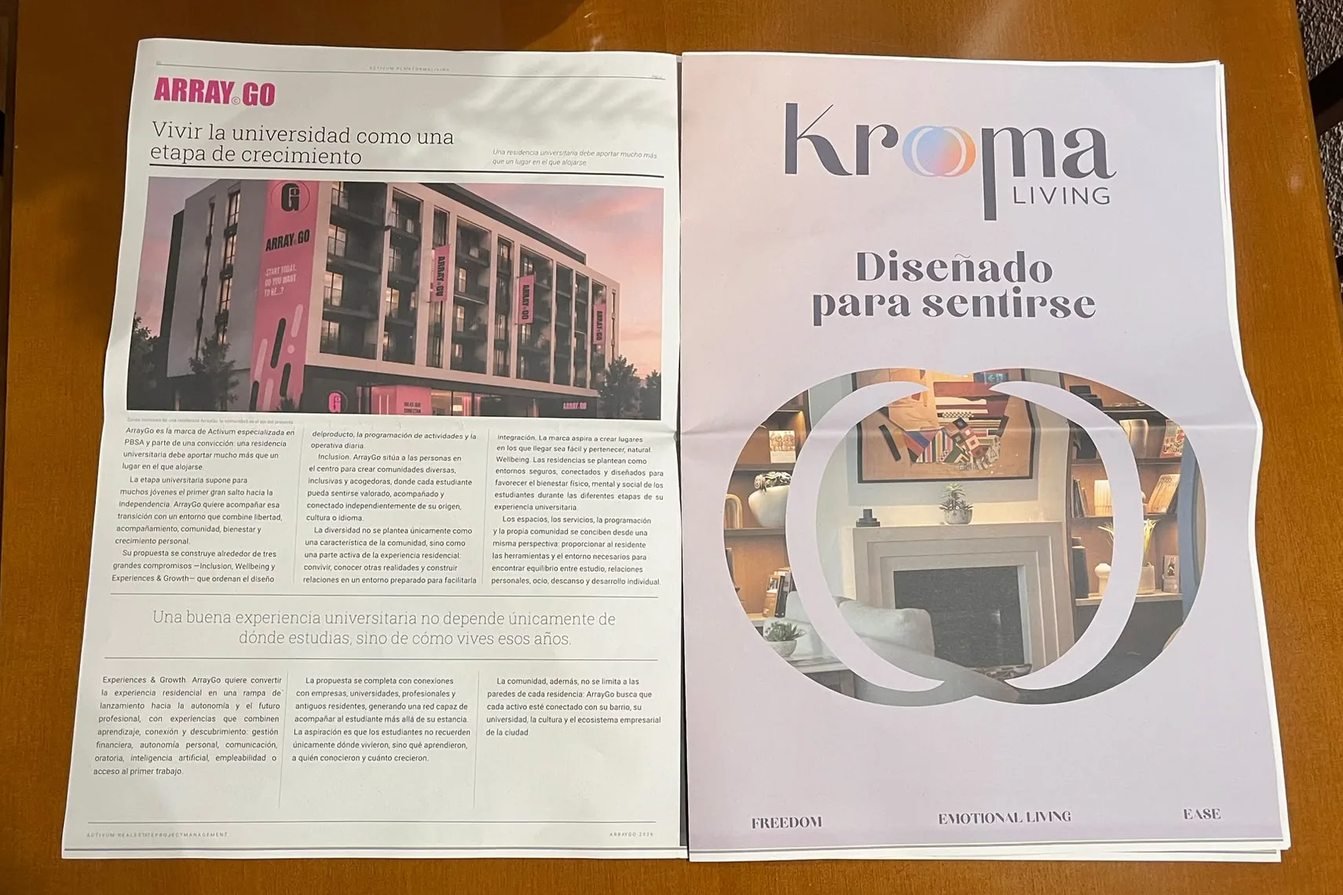
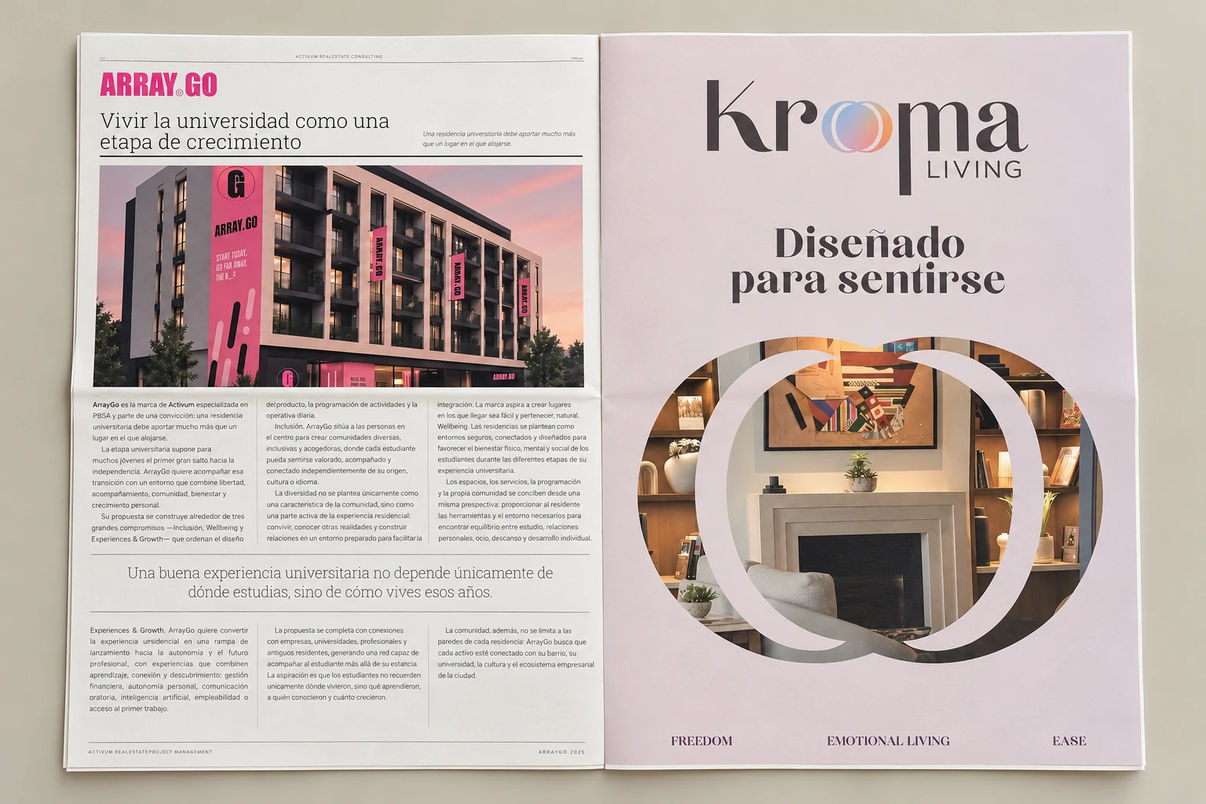
New newspaper images and internal magazine link on Marca en papel

diff --git a/marca-en-papel.html b/marca-en-papel.html
@@ -1,2 +1,2 @@
 <!doctype html>
-<html lang="es"><head><meta charset="utf-8"><meta name="viewport" content="width=device-width, initial-scale=1"><title>Marca en papel — María Valle</title><meta name="description" content="Dossieres, periódico de lanzamiento, revista interna, cartelería y artes finales para una consultora inmobiliaria y sus marcas."><link rel="canonical" href="https://maria-valle-portfolio.vercel.app/marca-en-papel.html"><meta property="og:type" content="website"><meta property="og:site_name" content="María Valle — Portfolio"><meta property="og:url" content="https://maria-valle-portfolio.vercel.app/marca-en-papel.html"><meta property="og:title" content="Marca en papel — María Valle"><meta property="og:description" content="Dossieres, periódico de lanzamiento, revista interna, cartelería y artes finales para una consultora inmobiliaria y sus marcas."><meta property="og:image" content="https://maria-valle-portfolio.vercel.app/assets/og/og-image-v2.png"><meta property="og:image:width" content="1200"><meta property="og:image:height" content="630"><meta property="og:locale" content="es_ES"><meta property="og:locale:alternate" content="en_US"><meta name="twitter:card" content="summary_large_image"><meta name="twitter:title" content="Marca en papel — María Valle"><meta name="twitter:description" content="Dossieres, periódico de lanzamiento, revista interna, cartelería y artes finales para una consultora inmobiliaria y sus marcas."><meta name="twitter:image" content="https://maria-valle-portfolio.vercel.app/assets/og/og-image-v2.png"><link rel="icon" type="image/png" sizes="16x16" href="assets/favicon/favicon-16.png"><link rel="icon" type="image/png" sizes="32x32" href="assets/favicon/favicon-32.png"><link rel="icon" type="image/png" sizes="48x48" href="assets/favicon/favicon-48.png"><link rel="icon" type="image/png" sizes="192x192" href="assets/favicon/icon-192.png"><link rel="icon" type="image/png" sizes="512x512" href="assets/favicon/icon-512.png"><link rel="apple-touch-icon" sizes="180x180" href="assets/favicon/apple-touch-icon.png"><link rel="stylesheet" href="colors_and_type.css?v=5"><link rel="stylesheet" href="site.css?v=6"></head><body data-lang="es"><header class="hdr"><div class="hdr__in"><a class="hdr__logo" href="index.html" aria-label="María Valle — inicio"><img src="assets/logos/logo-principal.webp" alt="María Valle"></a><nav class="nav" aria-label="Principal"><a href="trabajo.html" class="is-active"><span lang="es">Trabajo</span><span lang="en">Work</span></a><a href="sobre-mi.html"><span lang="es">Sobre mí</span><span lang="en">About</span></a><a href="#contacto"><span lang="es">Contacto</span><span lang="en">Contact</span></a><a class="nav__cv" href="assets/CV-Maria-Valle-Diseno-y-Branding.pdf" download>CV <span aria-hidden="true">↓</span></a></nav><div class="lang-switch" role="group" aria-label="Idioma"><button data-lang="es" class="is-active">ES</button><button data-lang="en">EN</button></div></div></header><main><article class="case"><div class="wrap case__top"><nav class="crumbs" aria-label="Ruta"><a href="trabajo.html"><span lang="es">Trabajo</span><span lang="en">Work</span></a><span>/</span><a href="trabajo.html#print"><span lang="es">Print y editorial</span><span lang="en">Print & editorial</span></a></nav><h1 class="case__title" lang="es">Marca en papel</h1><h1 class="case__title" lang="en">Brand on paper</h1><p class="case__line" lang="es">Dossieres, periódico de lanzamiento, revista interna, cartelería y artes finales para una consultora inmobiliaria y sus marcas.</p><p class="case__line" lang="en">Dossiers, a launch newspaper, an internal magazine, signage and print-ready artwork for a real estate consultancy and its brands.</p></div><div class="case__cover"><figure class="m " style="--r:3/2"><img src="assets/dossier/dossier-mockup.webp" alt="Dossier general" loading="lazy"></figure></div><div class="wrap" style="--accent-soft:#F3DEE3"><dl class="facts reveal"><div><dt>Sector</dt><dd><span lang="es">Inmobiliario · servicios corporativos</span><span lang="en">Real estate · corporate services</span></dd></div><div><dt><span lang="es">Año</span><span lang="en">Year</span></dt><dd>2025–26</dd></div><div><dt><span lang="es">Mi rol</span><span lang="en">My role</span></dt><dd><span lang="es">Diseño, maquetación y artes finales para imprenta.</span><span lang="en">Design, layout and print-ready artwork.</span></dd></div><div><dt><span lang="es">Entregables</span><span lang="en">Deliverables</span></dt><dd><span lang="es">Dossier general, dossieres de servicios, periódico de lanzamiento, revista interna, folletos, cartelería exterior, mailings, presentaciones y la caja regalo del 30 aniversario</span><span lang="en">General dossier, service dossiers, launch newspaper, internal magazine, brochures, outdoor signage, mailings, presentations and the 30th anniversary gift box</span></dd></div><div><dt><span lang="es">Herramientas</span><span lang="en">Tools</span></dt><dd>InDesign · Illustrator · Canva · Claude</dd></div></dl><section class="block reveal"><h2 class="block__label"><span>01</span><span lang="es">El reto</span><span lang="en">The challenge</span></h2><div class="block__body"><p><span lang="es">Una consultora inmobiliaria necesitaba todo su material comercial bajo una misma voz: dossieres de servicios para captar clientes, cartelería para promociones y eventos, y una revista interna para el equipo.</span><span lang="en">A real estate consultancy needed all its sales material under one voice: service dossiers to win clients, signage for developments and events, and an internal magazine for the team.</span></p></div></section><section class="block reveal"><h2 class="block__label"><span>02</span><span lang="es">Proceso</span><span lang="en">Process</span></h2><div class="block__body"><ol class="decisions"><li><b><span lang="es">Una retícula para todo</span><span lang="en">One grid for everything</span></b><p><span lang="es">Dossieres, folletos y revista comparten retícula y jerarquía, para que se lean como una sola marca.</span><span lang="en">Dossiers, brochures and magazine share one grid and hierarchy, so they read as a single brand.</span></p></li><li><b><span lang="es">Papel y pantalla</span><span lang="en">Paper and screen</span></b><p><span lang="es">Cada pieza se diseña para imprimirse y para enviarse en PDF sin rehacerla.</span><span lang="en">Every piece is designed to be printed and sent as a PDF without redoing it.</span></p></li><li><b><span lang="es">Artes finales en casa</span><span lang="en">Artwork prepared in-house</span></b><p><span lang="es">Preparación para imprenta: sangrados, perfiles de color y revisión de pruebas.</span><span lang="en">Prepress: bleeds, colour profiles and proof checks.</span></p></li></ol></div></section><section class="block reveal" id="periodico"><h2 class="block__label"><span>03</span><span lang="es">Periódico de lanzamiento</span><span lang="en">Launch newspaper</span></h2><div class="block__body"><p><span lang="es">Edición especial impresa para presentar ArrayGo y Kroma Living, con el avance de Hëlia: tres marcas que diseñé, reunidas en una sola pieza editorial.</span><span lang="en">A special printed edition to launch ArrayGo and Kroma Living, with a preview of Hëlia — three brands I designed, brought together in a single editorial piece.</span></p><dl class="facts facts--3"><div><dt><span lang="es">Formato</span><span lang="en">Format</span></dt><dd><span lang="es">Periódico impreso · 8 páginas</span><span lang="en">Printed newspaper · 8 pages</span></dd></div><div><dt><span lang="es">Fecha</span><span lang="en">Date</span></dt><dd><span lang="es">Septiembre 2026</span><span lang="en">September 2026</span></dd></div><div><dt><span lang="es">Mi rol</span><span lang="en">My role</span></dt><dd><span lang="es">Diseño editorial y maquetación</span><span lang="en">Editorial design and layout</span></dd></div></dl></div><div class="block__wide"><figure class="m paper__video" style="--r:16/9"><video class="pv" muted loop playsinline preload="none" poster="assets/periodico/periodico-lanzamiento-poster.webp" aria-label="Animación del periódico de lanzamiento: portada y páginas de ArrayGo, Kroma Living y Hëlia" data-label-es="Animación del periódico de lanzamiento: portada y páginas de ArrayGo, Kroma Living y Hëlia" data-label-en="Launch newspaper animation: front page and ArrayGo, Kroma Living and Hëlia pages"><source src="assets/periodico/periodico-lanzamiento.mp4" type="video/mp4"></video></figure><div class="paper__photos"><figure class="m" style="--r:1040/1300"><img src="assets/periodico/periodico-portada-impresa.webp" width="1040" height="1300" loading="lazy" alt="Portada del periódico impreso sobre una mesa" data-alt-es="Portada del periódico impreso sobre una mesa" data-alt-en="Printed newspaper front page on a table"></figure><figure class="m" style="--r:1710/1140"><img src="assets/periodico/periodico-doble-pagina-impresa.webp" width="1710" height="1140" loading="lazy" alt="Páginas impresas de ArrayGo y Kroma Living" data-alt-es="Páginas impresas de ArrayGo y Kroma Living" data-alt-en="Printed ArrayGo and Kroma Living pages"></figure></div><p class="paper__cap"><span lang="es">La edición impresa.</span><span lang="en">The printed edition.</span></p><p class="paper__more"><span lang="es">Las tres marcas, en detalle: <a href="arraygo.html">ArrayGo</a> · <a href="kroma-living.html">Kroma Living</a> · <a href="helia.html">Hëlia</a></span><span lang="en">The three brands in detail: <a href="arraygo.html">ArrayGo</a> · <a href="kroma-living.html">Kroma Living</a> · <a href="helia.html">Hëlia</a></span></p></div></section><section class="block reveal"><h2 class="block__label"><span>04</span><span lang="es">Resultado</span><span lang="en">Result</span></h2><div class="block__body"><div class="results results--4"><div class="res"><span class="res__n">1</span><span class="res__l"><span lang="es">periódico impreso para lanzar dos marcas</span><span lang="en">printed newspaper to launch two brands</span></span></div><div class="res"><span class="res__n">10+</span><span class="res__l"><span lang="es">dossieres de servicios corporativos</span><span lang="en">corporate service dossiers</span></span></div><div class="res"><span class="res__n is-text"><span lang="es">Revista</span><span lang="en">Magazine</span></span><span class="res__l"><span lang="es">La revista interna, publicada en digital</span><span lang="en">The internal magazine, published online</span></span></div><div class="res"><span class="res__n">1</span><span class="res__l"><span lang="es">evento corporativo con toda su cartelería</span><span lang="en">corporate event, full signage</span></span></div></div></div></section><div class="case__links reveal"><a class="btn btn--line" href="trabajo.html"><span lang="es">Todo el trabajo</span><span lang="en">All work</span> <span class="arr">→</span></a></div></div></article><nav class="wrap pn" aria-label="Proyectos"><a class="prev" href="blink-malaga.html"><figure class="m m--posts " style="background:#0B3D24"><img src="assets/rrss/blink-1.webp" alt="" loading="lazy"><img src="assets/rrss/blink-2.webp" alt="" loading="lazy"><img src="assets/rrss/blink-3.webp" alt="" loading="lazy"></figure><div><small><span lang="es">← Anterior</span><span lang="en">← Previous</span></small><b><span lang="es">Blink Málaga · redes</span><span lang="en">Blink Málaga · social</span></b></div></a><a class="next" href="residencial-bora.html"><figure class="m m--mark " style="background:#3A4F44"><img src="assets/bora/bora-blanco.webp" alt="Residencial Bora" loading="lazy"></figure><div><small><span lang="es">Siguiente →</span><span lang="en">Next →</span></small><b>Residencial Bora</b></div></a></nav><section class="wrap" id="contacto"><div class="contact reveal"><div class="contact__pattern" aria-hidden="true"></div><div class="mascot " aria-hidden="true" title="háblame"><img src="assets/mini-maria/mini-maria-naranja.webp" alt=""><span class="mascot-eyes mascot-eyes--l" style="--lid:var(--mv-sand)"></span><span class="mascot-eyes mascot-eyes--r" style="--lid:var(--mv-sand)"></span></div><div class="contact__in"><p class="eyebrow"><span lang="es">contacto</span><span lang="en">contact</span></p><h2 class="contact__title" lang="es">¿Buscas diseñadora para tu equipo? <em>Hablemos.</em></h2><h2 class="contact__title" lang="en">Looking for a designer for your team? <em>Let’s talk.</em></h2><div class="contact__actions"><a class="btn btn--coral" href="assets/CV-Maria-Valle-Diseno-y-Branding.pdf" download><span lang="es">Descargar CV</span><span lang="en">Download CV</span> <span class="arr">↓</span></a><a class="btn btn--ghost" href="https://linkedin.com/in/maria-valle-sanchez" target="_blank" rel="noopener">LinkedIn <span class="arr">↗</span></a><a class="btn btn--ghost" href="mailto:maria.vsanchez00@gmail.com">Email <span class="arr">→</span></a></div><a class="contact__mail" href="mailto:maria.vsanchez00@gmail.com">maria.vsanchez00@gmail.com</a></div></div></section></main><footer class="wrap foot"><a href="index.html" aria-label="Inicio"><img src="assets/logos/logo-principal.webp" alt="María Valle"></a><span>© 2026 María Valle · <span lang="es">Diseñadora de marca y digital</span><span lang="en">Brand & digital designer</span></span><nav><a href="https://linkedin.com/in/maria-valle-sanchez" target="_blank" rel="noopener">LinkedIn</a><a href="mailto:maria.vsanchez00@gmail.com">Email</a></nav></footer><script src="site.js?v=6"></script><script defer src="/_vercel/insights/script.js"></script></body></html>
+<html lang="es"><head><meta charset="utf-8"><meta name="viewport" content="width=device-width, initial-scale=1"><title>Marca en papel — María Valle</title><meta name="description" content="Dossieres, periódico de lanzamiento, revista interna, cartelería y artes finales para una consultora inmobiliaria y sus marcas."><link rel="canonical" href="https://maria-valle-portfolio.vercel.app/marca-en-papel.html"><meta property="og:type" content="website"><meta property="og:site_name" content="María Valle — Portfolio"><meta property="og:url" content="https://maria-valle-portfolio.vercel.app/marca-en-papel.html"><meta property="og:title" content="Marca en papel — María Valle"><meta property="og:description" content="Dossieres, periódico de lanzamiento, revista interna, cartelería y artes finales para una consultora inmobiliaria y sus marcas."><meta property="og:image" content="https://maria-valle-portfolio.vercel.app/assets/og/og-image-v2.png"><meta property="og:image:width" content="1200"><meta property="og:image:height" content="630"><meta property="og:locale" content="es_ES"><meta property="og:locale:alternate" content="en_US"><meta name="twitter:card" content="summary_large_image"><meta name="twitter:title" content="Marca en papel — María Valle"><meta name="twitter:description" content="Dossieres, periódico de lanzamiento, revista interna, cartelería y artes finales para una consultora inmobiliaria y sus marcas."><meta name="twitter:image" content="https://maria-valle-portfolio.vercel.app/assets/og/og-image-v2.png"><link rel="icon" type="image/png" sizes="16x16" href="assets/favicon/favicon-16.png"><link rel="icon" type="image/png" sizes="32x32" href="assets/favicon/favicon-32.png"><link rel="icon" type="image/png" sizes="48x48" href="assets/favicon/favicon-48.png"><link rel="icon" type="image/png" sizes="192x192" href="assets/favicon/icon-192.png"><link rel="icon" type="image/png" sizes="512x512" href="assets/favicon/icon-512.png"><link rel="apple-touch-icon" sizes="180x180" href="assets/favicon/apple-touch-icon.png"><link rel="stylesheet" href="colors_and_type.css?v=5"><link rel="stylesheet" href="site.css?v=6"></head><body data-lang="es"><header class="hdr"><div class="hdr__in"><a class="hdr__logo" href="index.html" aria-label="María Valle — inicio"><img src="assets/logos/logo-principal.webp" alt="María Valle"></a><nav class="nav" aria-label="Principal"><a href="trabajo.html" class="is-active"><span lang="es">Trabajo</span><span lang="en">Work</span></a><a href="sobre-mi.html"><span lang="es">Sobre mí</span><span lang="en">About</span></a><a href="#contacto"><span lang="es">Contacto</span><span lang="en">Contact</span></a><a class="nav__cv" href="assets/CV-Maria-Valle-Diseno-y-Branding.pdf" download>CV <span aria-hidden="true">↓</span></a></nav><div class="lang-switch" role="group" aria-label="Idioma"><button data-lang="es" class="is-active">ES</button><button data-lang="en">EN</button></div></div></header><main><article class="case"><div class="wrap case__top"><nav class="crumbs" aria-label="Ruta"><a href="trabajo.html"><span lang="es">Trabajo</span><span lang="en">Work</span></a><span>/</span><a href="trabajo.html#print"><span lang="es">Print y editorial</span><span lang="en">Print & editorial</span></a></nav><h1 class="case__title" lang="es">Marca en papel</h1><h1 class="case__title" lang="en">Brand on paper</h1><p class="case__line" lang="es">Dossieres, periódico de lanzamiento, revista interna, cartelería y artes finales para una consultora inmobiliaria y sus marcas.</p><p class="case__line" lang="en">Dossiers, a launch newspaper, an internal magazine, signage and print-ready artwork for a real estate consultancy and its brands.</p></div><div class="case__cover"><figure class="m " style="--r:3/2"><img src="assets/dossier/dossier-mockup.webp" alt="Dossier general" loading="lazy"></figure></div><div class="wrap" style="--accent-soft:#F3DEE3"><dl class="facts reveal"><div><dt>Sector</dt><dd><span lang="es">Inmobiliario · servicios corporativos</span><span lang="en">Real estate · corporate services</span></dd></div><div><dt><span lang="es">Año</span><span lang="en">Year</span></dt><dd>2025–26</dd></div><div><dt><span lang="es">Mi rol</span><span lang="en">My role</span></dt><dd><span lang="es">Diseño, maquetación y artes finales para imprenta.</span><span lang="en">Design, layout and print-ready artwork.</span></dd></div><div><dt><span lang="es">Entregables</span><span lang="en">Deliverables</span></dt><dd><span lang="es">Dossier general, dossieres de servicios, periódico de lanzamiento, revista interna, folletos, cartelería exterior, mailings, presentaciones y la caja regalo del 30 aniversario</span><span lang="en">General dossier, service dossiers, launch newspaper, internal magazine, brochures, outdoor signage, mailings, presentations and the 30th anniversary gift box</span></dd></div><div><dt><span lang="es">Herramientas</span><span lang="en">Tools</span></dt><dd>InDesign · Illustrator · Canva · Claude</dd></div></dl><section class="block reveal"><h2 class="block__label"><span>01</span><span lang="es">El reto</span><span lang="en">The challenge</span></h2><div class="block__body"><p><span lang="es">Una consultora inmobiliaria necesitaba todo su material comercial bajo una misma voz: dossieres de servicios para captar clientes, cartelería para promociones y eventos, y una revista interna para el equipo.</span><span lang="en">A real estate consultancy needed all its sales material under one voice: service dossiers to win clients, signage for developments and events, and an internal magazine for the team.</span></p></div></section><section class="block reveal"><h2 class="block__label"><span>02</span><span lang="es">Proceso</span><span lang="en">Process</span></h2><div class="block__body"><ol class="decisions"><li><b><span lang="es">Una retícula para todo</span><span lang="en">One grid for everything</span></b><p><span lang="es">Dossieres, folletos y revista comparten retícula y jerarquía, para que se lean como una sola marca.</span><span lang="en">Dossiers, brochures and magazine share one grid and hierarchy, so they read as a single brand.</span></p></li><li><b><span lang="es">Papel y pantalla</span><span lang="en">Paper and screen</span></b><p><span lang="es">Cada pieza se diseña para imprimirse y para enviarse en PDF sin rehacerla.</span><span lang="en">Every piece is designed to be printed and sent as a PDF without redoing it.</span></p></li><li><b><span lang="es">Artes finales en casa</span><span lang="en">Artwork prepared in-house</span></b><p><span lang="es">Preparación para imprenta: sangrados, perfiles de color y revisión de pruebas.</span><span lang="en">Prepress: bleeds, colour profiles and proof checks.</span></p></li></ol></div></section><section class="block reveal" id="periodico"><h2 class="block__label"><span>03</span><span lang="es">Periódico de lanzamiento</span><span lang="en">Launch newspaper</span></h2><div class="block__body"><p><span lang="es">Edición especial impresa para presentar ArrayGo y Kroma Living, con el avance de Hëlia: tres marcas que diseñé, reunidas en una sola pieza editorial.</span><span lang="en">A special printed edition to launch ArrayGo and Kroma Living, with a preview of Hëlia — three brands I designed, brought together in a single editorial piece.</span></p><dl class="facts facts--3"><div><dt><span lang="es">Formato</span><span lang="en">Format</span></dt><dd><span lang="es">Periódico impreso · 8 páginas</span><span lang="en">Printed newspaper · 8 pages</span></dd></div><div><dt><span lang="es">Fecha</span><span lang="en">Date</span></dt><dd><span lang="es">Septiembre 2026</span><span lang="en">September 2026</span></dd></div><div><dt><span lang="es">Mi rol</span><span lang="en">My role</span></dt><dd><span lang="es">Diseño editorial y maquetación</span><span lang="en">Editorial design and layout</span></dd></div></dl></div><div class="block__wide"><figure class="m paper__video" style="--r:16/9"><video class="pv" muted loop playsinline preload="none" poster="assets/periodico/periodico-lanzamiento-poster.webp" aria-label="Animación del periódico de lanzamiento: portada y páginas de ArrayGo, Kroma Living y Hëlia" data-label-es="Animación del periódico de lanzamiento: portada y páginas de ArrayGo, Kroma Living y Hëlia" data-label-en="Launch newspaper animation: front page and ArrayGo, Kroma Living and Hëlia pages"><source src="assets/periodico/periodico-lanzamiento.mp4" type="video/mp4"></video></figure><div class="paper__photos"><figure class="m" style="--r:1122/1402"><img src="assets/periodico/periodico-portada-impresa.webp" width="1122" height="1402" loading="lazy" alt="Portada del periódico impreso" data-alt-es="Portada del periódico impreso" data-alt-en="Printed newspaper front page"></figure><figure class="m" style="--r:1536/1024"><img src="assets/periodico/periodico-doble-pagina-impresa.webp" width="1536" height="1024" loading="lazy" alt="Páginas impresas de ArrayGo y Kroma Living" data-alt-es="Páginas impresas de ArrayGo y Kroma Living" data-alt-en="Printed ArrayGo and Kroma Living pages"></figure></div><p class="paper__cap"><span lang="es">La edición impresa.</span><span lang="en">The printed edition.</span></p><p class="paper__more"><span lang="es">Las tres marcas, en detalle: <a href="arraygo.html">ArrayGo</a> · <a href="kroma-living.html">Kroma Living</a> · <a href="helia.html">Hëlia</a></span><span lang="en">The three brands in detail: <a href="arraygo.html">ArrayGo</a> · <a href="kroma-living.html">Kroma Living</a> · <a href="helia.html">Hëlia</a></span></p></div></section><section class="block reveal"><h2 class="block__label"><span>04</span><span lang="es">Resultado</span><span lang="en">Result</span></h2><div class="block__body"><div class="results results--4"><div class="res"><span class="res__n">1</span><span class="res__l"><span lang="es">periódico impreso para lanzar dos marcas</span><span lang="en">printed newspaper to launch two brands</span></span></div><div class="res"><span class="res__n">10+</span><span class="res__l"><span lang="es">dossieres de servicios corporativos</span><span lang="en">corporate service dossiers</span></span></div><div class="res"><span class="res__n is-text"><span lang="es">Revista</span><span lang="en">Magazine</span></span><span class="res__l"><span lang="es">La revista interna, publicada en digital</span><span lang="en">The internal magazine, published online</span></span></div><div class="res"><span class="res__n">1</span><span class="res__l"><span lang="es">evento corporativo con toda su cartelería</span><span lang="en">corporate event, full signage</span></span></div></div></div></section><div class="case__links reveal"><a class="btn btn--solid" href="https://activum-inside.lovable.app/" target="_blank" rel="noopener"><span lang="es">Ver la revista interna</span><span lang="en">View the internal magazine</span> <span class="arr">↗</span></a><a class="btn btn--line" href="trabajo.html"><span lang="es">Todo el trabajo</span><span lang="en">All work</span> <span class="arr">→</span></a></div></div></article><nav class="wrap pn" aria-label="Proyectos"><a class="prev" href="blink-malaga.html"><figure class="m m--posts " style="background:#0B3D24"><img src="assets/rrss/blink-1.webp" alt="" loading="lazy"><img src="assets/rrss/blink-2.webp" alt="" loading="lazy"><img src="assets/rrss/blink-3.webp" alt="" loading="lazy"></figure><div><small><span lang="es">← Anterior</span><span lang="en">← Previous</span></small><b><span lang="es">Blink Málaga · redes</span><span lang="en">Blink Málaga · social</span></b></div></a><a class="next" href="residencial-bora.html"><figure class="m m--mark " style="background:#3A4F44"><img src="assets/bora/bora-blanco.webp" alt="Residencial Bora" loading="lazy"></figure><div><small><span lang="es">Siguiente →</span><span lang="en">Next →</span></small><b>Residencial Bora</b></div></a></nav><section class="wrap" id="contacto"><div class="contact reveal"><div class="contact__pattern" aria-hidden="true"></div><div class="mascot " aria-hidden="true" title="háblame"><img src="assets/mini-maria/mini-maria-naranja.webp" alt=""><span class="mascot-eyes mascot-eyes--l" style="--lid:var(--mv-sand)"></span><span class="mascot-eyes mascot-eyes--r" style="--lid:var(--mv-sand)"></span></div><div class="contact__in"><p class="eyebrow"><span lang="es">contacto</span><span lang="en">contact</span></p><h2 class="contact__title" lang="es">¿Buscas diseñadora para tu equipo? <em>Hablemos.</em></h2><h2 class="contact__title" lang="en">Looking for a designer for your team? <em>Let’s talk.</em></h2><div class="contact__actions"><a class="btn btn--coral" href="assets/CV-Maria-Valle-Diseno-y-Branding.pdf" download><span lang="es">Descargar CV</span><span lang="en">Download CV</span> <span class="arr">↓</span></a><a class="btn btn--ghost" href="https://linkedin.com/in/maria-valle-sanchez" target="_blank" rel="noopener">LinkedIn <span class="arr">↗</span></a><a class="btn btn--ghost" href="mailto:maria.vsanchez00@gmail.com">Email <span class="arr">→</span></a></div><a class="contact__mail" href="mailto:maria.vsanchez00@gmail.com">maria.vsanchez00@gmail.com</a></div></div></section></main><footer class="wrap foot"><a href="index.html" aria-label="Inicio"><img src="assets/logos/logo-principal.webp" alt="María Valle"></a><span>© 2026 María Valle · <span lang="es">Diseñadora de marca y digital</span><span lang="en">Brand & digital designer</span></span><nav><a href="https://linkedin.com/in/maria-valle-sanchez" target="_blank" rel="noopener">LinkedIn</a><a href="mailto:maria.vsanchez00@gmail.com">Email</a></nav></footer><script src="site.js?v=6"></script><script defer src="/_vercel/insights/script.js"></script></body></html>
